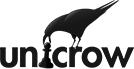
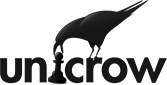
Update sponsor list.

diff --git a/templates/layout.html b/templates/layout.html
@@ -70,20 +70,34 @@
                 <a href="http://koding.com/"><img src="/static/img/sponsors/gold/koding.png" height="69" width="266" alt=""></a>
             </div><!-- end golden -->
 
+            <div id="silver-sponsors" class="sponsor-logos">
+                <h2>{{ _("Gümüş Sponsor") }}</h2>
+                <div><img src="/static/img/sponsors/other/sahibinden.png" height="65" width="305" alt=""></div>
+            </div><!-- end silver -->
+
+            <div id="bronze-sponsors" class="sponsor-logos">
+                <h2>{{ _("Bronz Sponsor") }}</h2>
+                <div><img src="/static/img/sponsors/other/markafoni.png" height="79" width="211" alt=""></div>
+            </div><!-- end silver -->
+
             <div id="other-sponsors" class="sponsor-logos">
                 <h2>{{ _("Sponsorlar") }}</h2>
                 <div><a href="http://www.ozyegin.edu.tr/"><img src="/static/img/sponsors/other/ozyegin.png" height="57" width="194" alt=""></a></div>
                 <div class="gap"><a href="http://sonsuzdongu.com/"><img src="/static/img/sponsors/other/sonsuzdongu.png" height="58" width="100" alt=""></a></div>
                 <div><a href="http://www.pozitiftv.com/"><img src="/static/img/sponsors/other/pozitiftv.png" height="47" width="147" alt=""></a></div>
                 <div><a href="http://www.heroku.com/"><img src="/static/img/sponsors/other/heroku.png" height="54" width="178" alt=""></a></div>
-                <div class="gap"><a href="http://www.unicrow.com/"><img src="/static/img/sponsors/other/unicrow.png" height="69" width="134" alt=""></a></div>
-                <div><a href="http://www.yandex.com.tr/"><img src="/static/img/sponsors/other/yandex.png" height="47" width="120" alt=""></a></div>
+                <div class="gap"><a href="http://www.yandex.com.tr/"><img src="/static/img/sponsors/other/yandex.png" height="47" width="120" alt=""></a></div>
                 <div><a href="http://www.zendesk.com/"><img src="/static/img/sponsors/other/zendesk.png" height="46" width="200" alt=""></a></div>
                 <div class="gap"><a href="http://www.edfor.com/"><img src="/static/img/sponsors/other/edfor.png" height="42" width="156" alt=""></a></div>
                 <div><a href="http://girisimfabrikasi.com/"><img src="/static/img/sponsors/other/girisim-fabrikasi.png" height="66" width="105" alt=""></a></div>
             </div><!-- end silver -->
 
-            <div id="media-sponsors" class="sponsor-logos">
+            <div class="visual-comm-sponsor sponsor-logos">
+                <h2>{{ _("Görsel İletişim Sponsoru") }}</h2>
+                <img src="/static/img/sponsors/other/unicrow.png" height="85" width="167" alt="">
+            </div><!-- end visual communication -->
+
+            <div class="media-sponsor sponsor-logos">
                 <h2>{{ _("Medya Sponsoru") }}</h2>
                 <a href="http://www.webrazzi.com/"><img src="/static/img/sponsors/media/webrazzi.png" height="46" width="224" alt=""></a>
             </div><!-- end bronze -->
